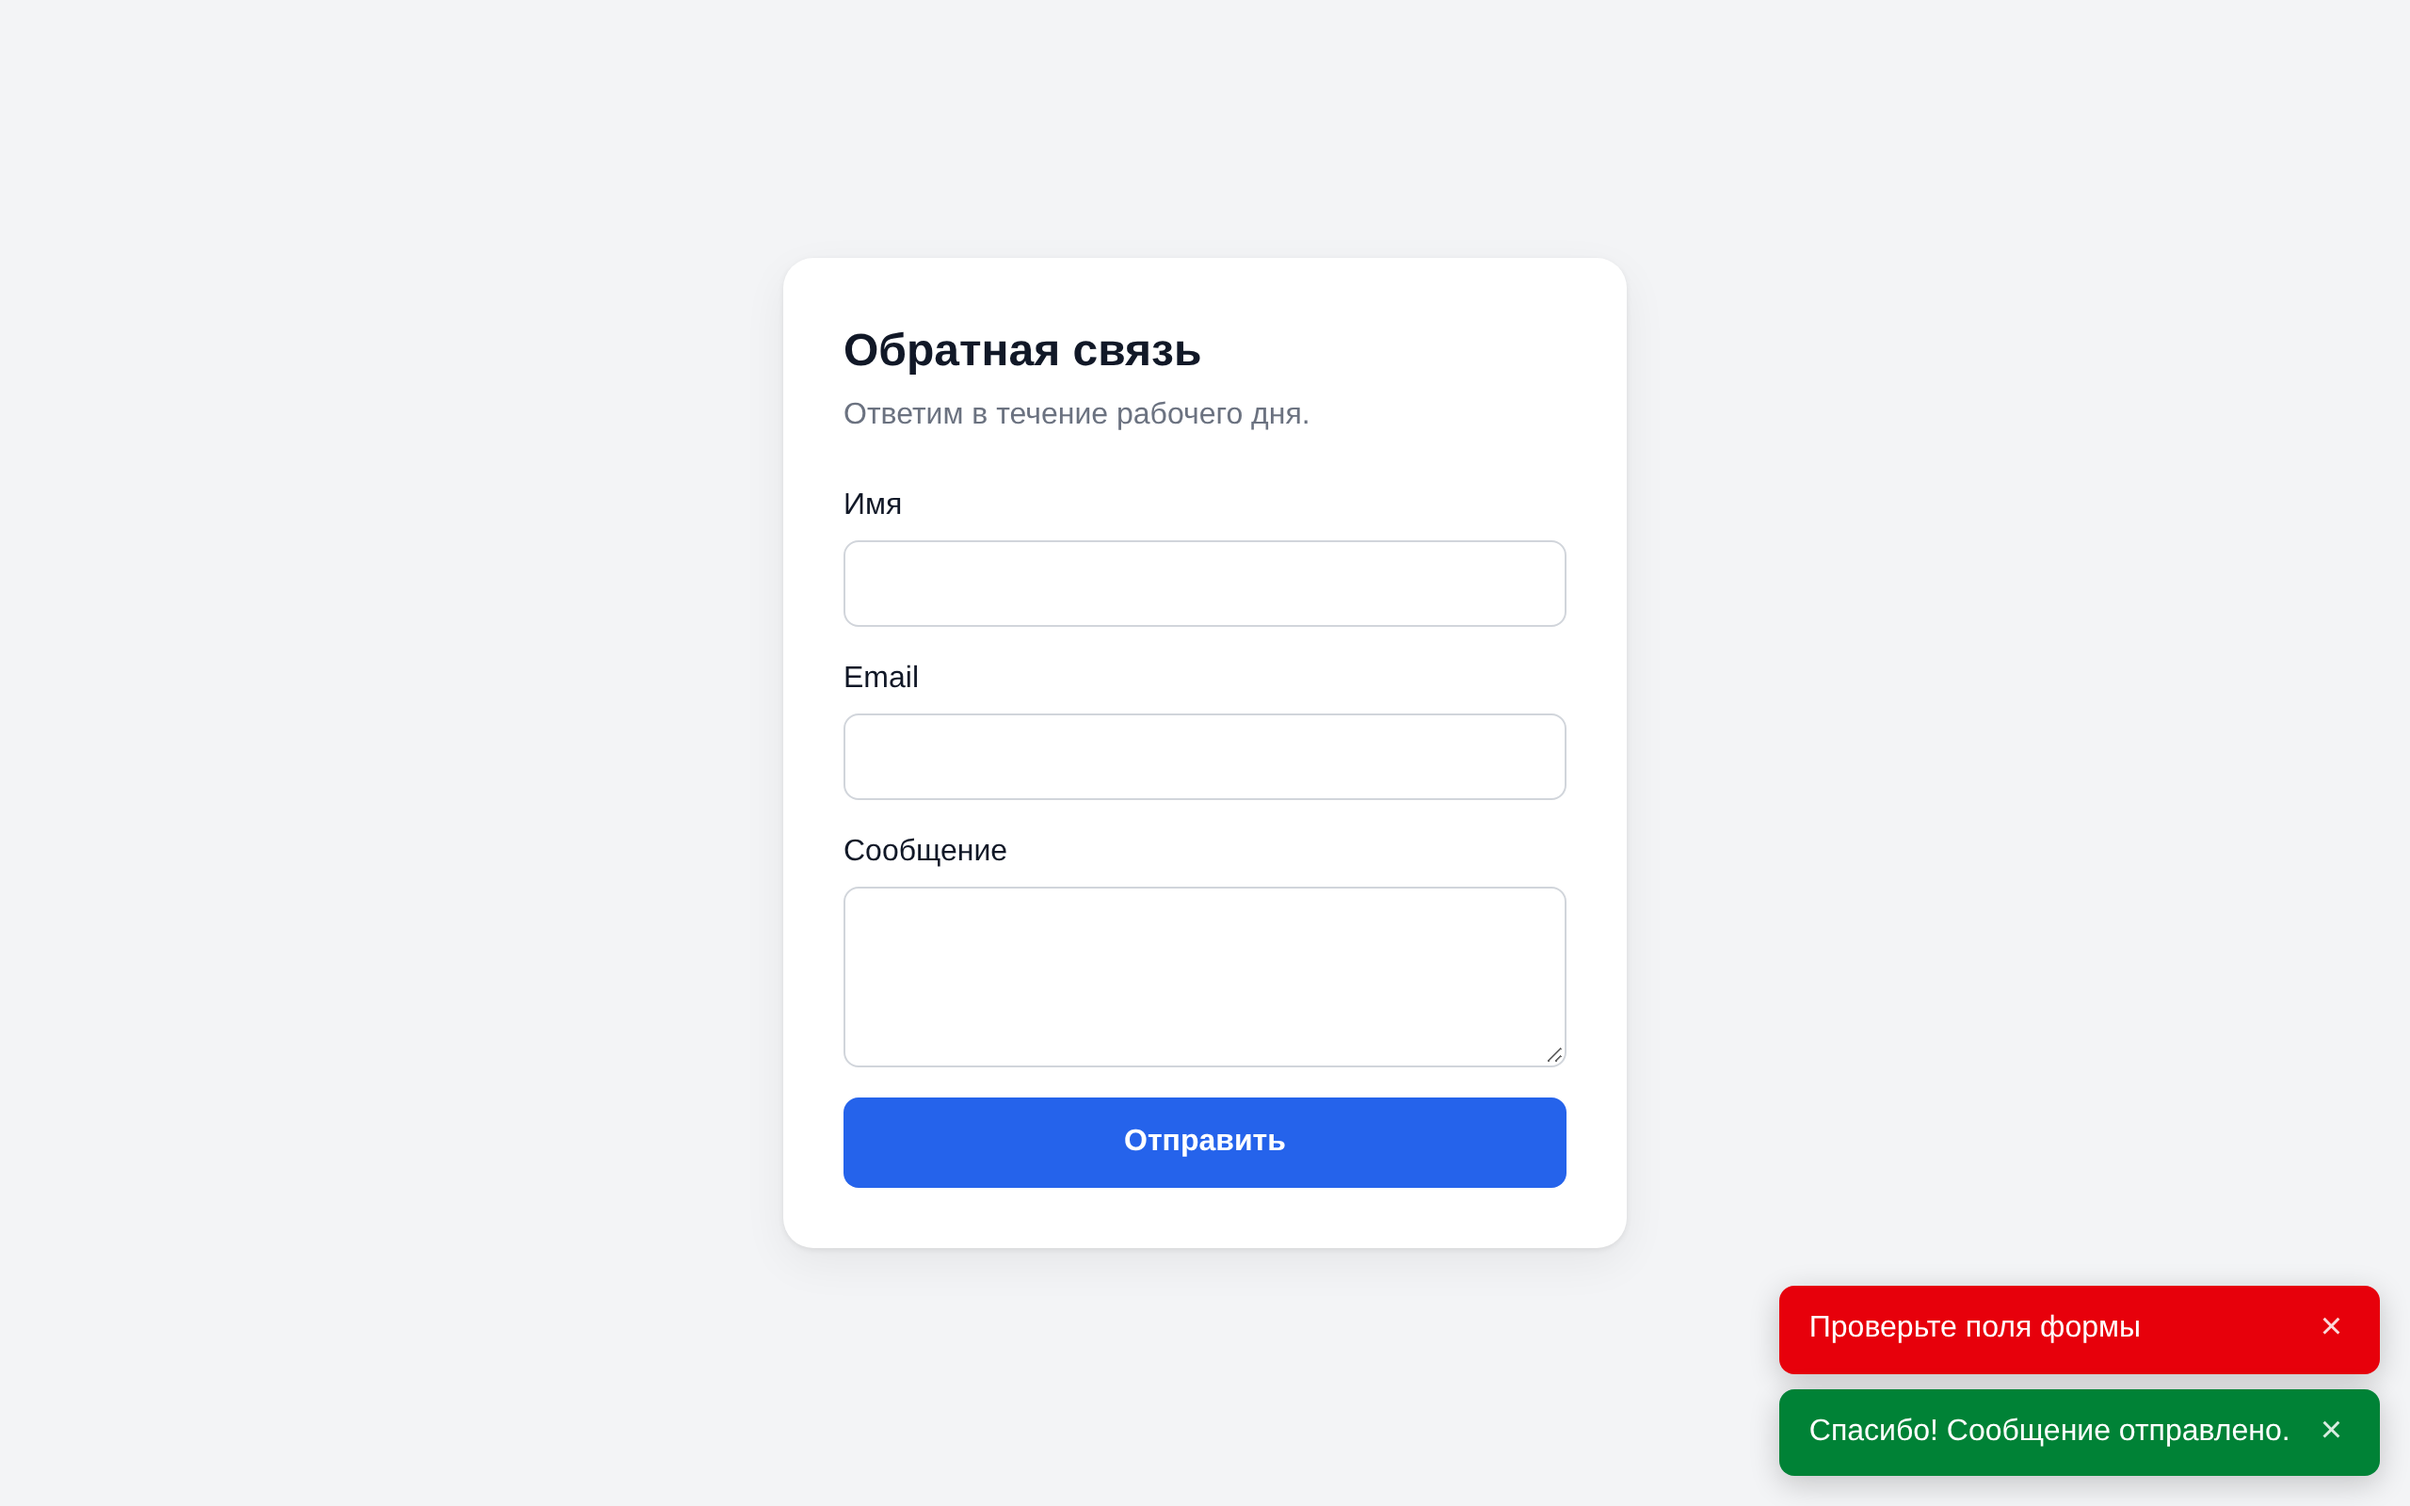
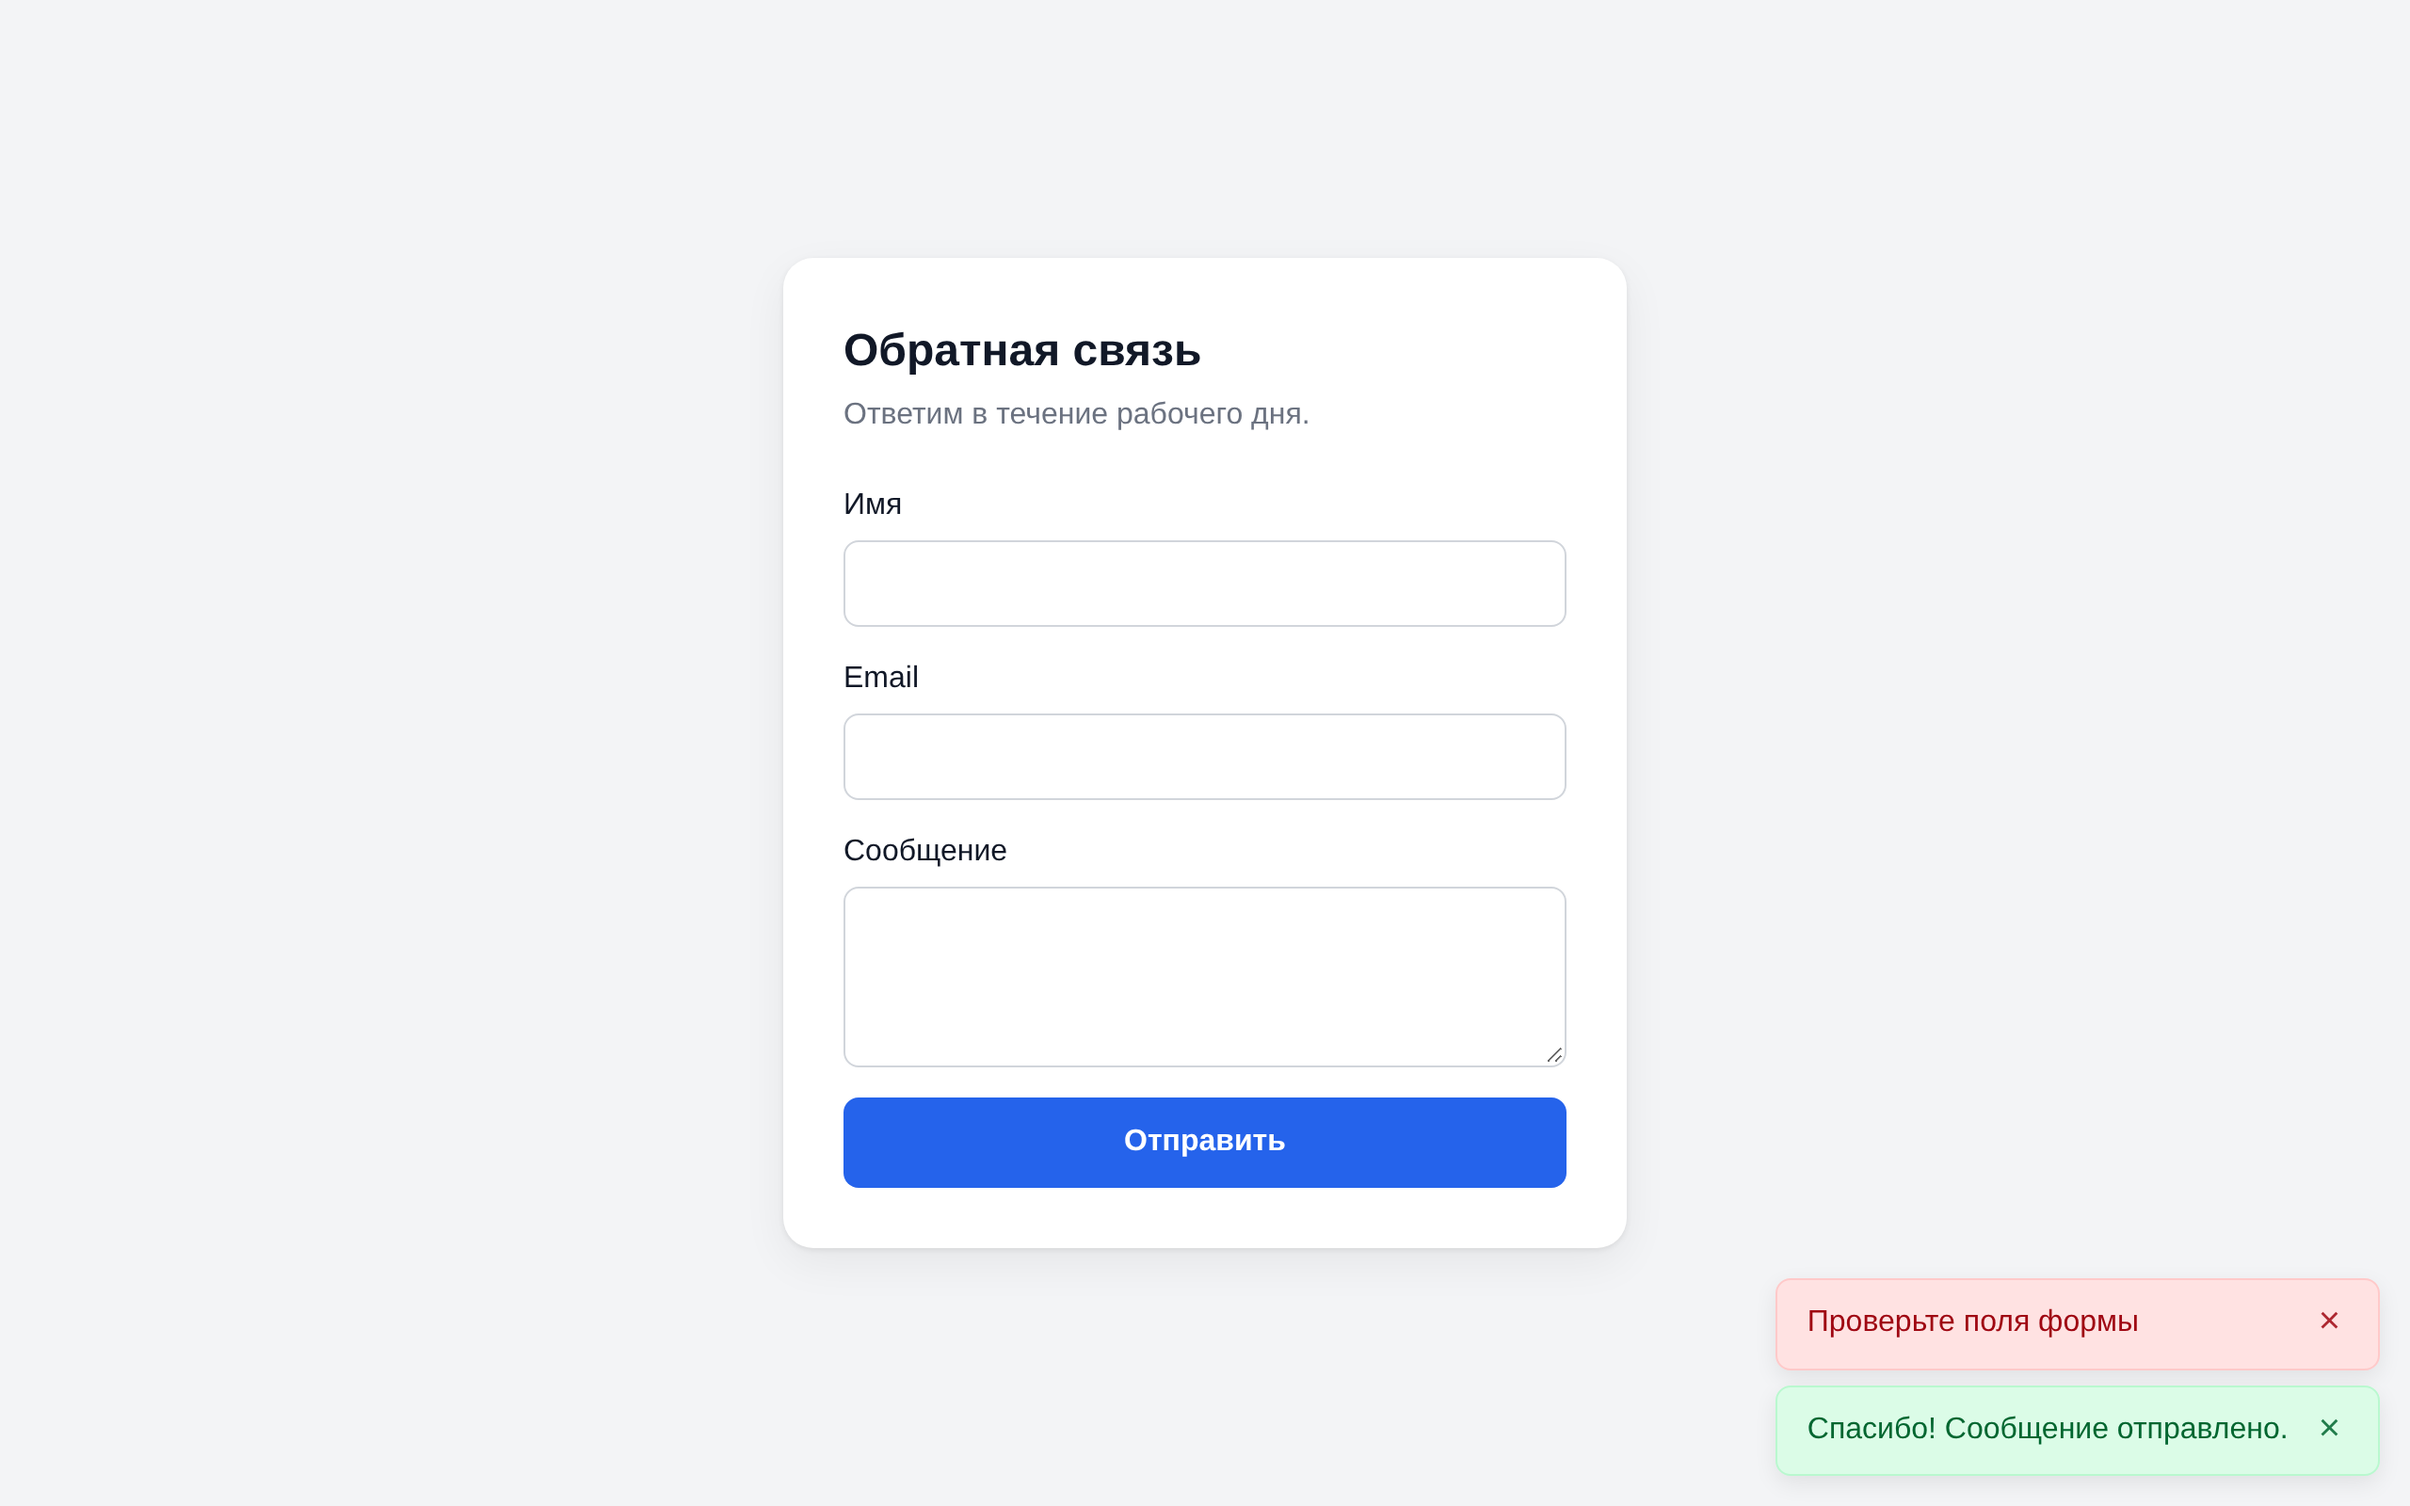
feat(notifier): Use the pastel alert colours of Tailwind CSS 4

Changed region(s): [[0.7188, 0.8438, 1.0, 1.0]]

diff --git a/src/notifier.ts b/src/notifier.ts
@@ -6,10 +6,10 @@
 // The styles use single class selectors: they win over the site's rules for
 // bare elements (button { ... }) and lose to any class rule of the site that
 // comes later. Rules inside @layer (Tailwind 4) lose to them; the colours
-// are CSS variables for that: --fetchit-toast-color, --fetchit-toast-success,
-// --fetchit-toast-error. By default they are the colours of Tailwind CSS 4
-// with enough contrast for white text: green-700 and red-600, in oklch()
-// where the browser knows it and in hex elsewhere.
+// are CSS variables for that: --fetchit-toast-{success,error}-{bg,text,border}.
+// By default they are pastel colours of Tailwind CSS 4, as in its alerts:
+// the 100 shade for the background, 200 for the border and 800 for the text,
+// green and red, in oklch() where the browser knows it and in hex elsewhere.
 //
 // Screen readers hear a toast through two live regions that exist, empty,
 // from the start, since a region added together with its text is often not
@@ -37,14 +37,26 @@ const CSS = `
 }
 .fetchit-toast {
   display: flex; align-items: flex-start; gap: .75rem; margin: 0; padding: .75rem 1rem; border-radius: .5rem;
-  color: var(--fetchit-toast-color, #fff); background: var(--fetchit-toast-success, #008236);
-  box-shadow: 0 .25rem 1rem rgb(0 0 0 / .2); line-height: 1.4; pointer-events: auto;
+  color: var(--fetchit-toast-success-text, #016630); background: var(--fetchit-toast-success-bg, #dcfce7);
+  border: 1px solid var(--fetchit-toast-success-border, #b9f8cf);
+  box-shadow: 0 .25rem .75rem rgb(0 0 0 / .08); line-height: 1.4; pointer-events: auto;
   animation: fetchit-toast-in .2s ease-out;
 }
-.fetchit-toast:where([data-type="error"]) { background: var(--fetchit-toast-error, #e7000b); }
+.fetchit-toast:where([data-type="error"]) {
+  color: var(--fetchit-toast-error-text, #9f0712); background: var(--fetchit-toast-error-bg, #ffe2e2);
+  border-color: var(--fetchit-toast-error-border, #ffc9c9);
+}
 @supports (color: oklch(0% 0 0)) {
-  .fetchit-toast { background: var(--fetchit-toast-success, oklch(52.7% 0.154 150.069)); }
-  .fetchit-toast:where([data-type="error"]) { background: var(--fetchit-toast-error, oklch(57.7% 0.245 27.325)); }
+  .fetchit-toast {
+    color: var(--fetchit-toast-success-text, oklch(44.8% 0.119 151.328));
+    background: var(--fetchit-toast-success-bg, oklch(96.2% 0.044 156.743));
+    border-color: var(--fetchit-toast-success-border, oklch(92.5% 0.084 155.995));
+  }
+  .fetchit-toast:where([data-type="error"]) {
+    color: var(--fetchit-toast-error-text, oklch(44.4% 0.177 26.899));
+    background: var(--fetchit-toast-error-bg, oklch(93.6% 0.032 17.717));
+    border-color: var(--fetchit-toast-error-border, oklch(88.5% 0.062 18.334));
+  }
 }
 .fetchit-toast__text { flex: 1; overflow-wrap: anywhere; }
 .fetchit-toast__close {

diff --git a/assets/components/fetchit/js/fetchit.js b/assets/components/fetchit/js/fetchit.js
@@ -194,14 +194,26 @@
 }
 .fetchit-toast {
   display: flex; align-items: flex-start; gap: .75rem; margin: 0; padding: .75rem 1rem; border-radius: .5rem;
-  color: var(--fetchit-toast-color, #fff); background: var(--fetchit-toast-success, #008236);
-  box-shadow: 0 .25rem 1rem rgb(0 0 0 / .2); line-height: 1.4; pointer-events: auto;
+  color: var(--fetchit-toast-success-text, #016630); background: var(--fetchit-toast-success-bg, #dcfce7);
+  border: 1px solid var(--fetchit-toast-success-border, #b9f8cf);
+  box-shadow: 0 .25rem .75rem rgb(0 0 0 / .08); line-height: 1.4; pointer-events: auto;
   animation: fetchit-toast-in .2s ease-out;
 }
-.fetchit-toast:where([data-type="error"]) { background: var(--fetchit-toast-error, #e7000b); }
+.fetchit-toast:where([data-type="error"]) {
+  color: var(--fetchit-toast-error-text, #9f0712); background: var(--fetchit-toast-error-bg, #ffe2e2);
+  border-color: var(--fetchit-toast-error-border, #ffc9c9);
+}
 @supports (color: oklch(0% 0 0)) {
-  .fetchit-toast { background: var(--fetchit-toast-success, oklch(52.7% 0.154 150.069)); }
-  .fetchit-toast:where([data-type="error"]) { background: var(--fetchit-toast-error, oklch(57.7% 0.245 27.325)); }
+  .fetchit-toast {
+    color: var(--fetchit-toast-success-text, oklch(44.8% 0.119 151.328));
+    background: var(--fetchit-toast-success-bg, oklch(96.2% 0.044 156.743));
+    border-color: var(--fetchit-toast-success-border, oklch(92.5% 0.084 155.995));
+  }
+  .fetchit-toast:where([data-type="error"]) {
+    color: var(--fetchit-toast-error-text, oklch(44.4% 0.177 26.899));
+    background: var(--fetchit-toast-error-bg, oklch(93.6% 0.032 17.717));
+    border-color: var(--fetchit-toast-error-border, oklch(88.5% 0.062 18.334));
+  }
 }
 .fetchit-toast__text { flex: 1; overflow-wrap: anywhere; }
 .fetchit-toast__close {

diff --git a/assets/components/fetchit/js/fetchit.min.js b/assets/components/fetchit/js/fetchit.min.js
@@ -6,14 +6,26 @@
 }
 .fetchit-toast {
   display: flex; align-items: flex-start; gap: .75rem; margin: 0; padding: .75rem 1rem; border-radius: .5rem;
-  color: var(--fetchit-toast-color, #fff); background: var(--fetchit-toast-success, #008236);
-  box-shadow: 0 .25rem 1rem rgb(0 0 0 / .2); line-height: 1.4; pointer-events: auto;
+  color: var(--fetchit-toast-success-text, #016630); background: var(--fetchit-toast-success-bg, #dcfce7);
+  border: 1px solid var(--fetchit-toast-success-border, #b9f8cf);
+  box-shadow: 0 .25rem .75rem rgb(0 0 0 / .08); line-height: 1.4; pointer-events: auto;
   animation: fetchit-toast-in .2s ease-out;
 }
-.fetchit-toast:where([data-type="error"]) { background: var(--fetchit-toast-error, #e7000b); }
+.fetchit-toast:where([data-type="error"]) {
+  color: var(--fetchit-toast-error-text, #9f0712); background: var(--fetchit-toast-error-bg, #ffe2e2);
+  border-color: var(--fetchit-toast-error-border, #ffc9c9);
+}
 @supports (color: oklch(0% 0 0)) {
-  .fetchit-toast { background: var(--fetchit-toast-success, oklch(52.7% 0.154 150.069)); }
-  .fetchit-toast:where([data-type="error"]) { background: var(--fetchit-toast-error, oklch(57.7% 0.245 27.325)); }
+  .fetchit-toast {
+    color: var(--fetchit-toast-success-text, oklch(44.8% 0.119 151.328));
+    background: var(--fetchit-toast-success-bg, oklch(96.2% 0.044 156.743));
+    border-color: var(--fetchit-toast-success-border, oklch(92.5% 0.084 155.995));
+  }
+  .fetchit-toast:where([data-type="error"]) {
+    color: var(--fetchit-toast-error-text, oklch(44.4% 0.177 26.899));
+    background: var(--fetchit-toast-error-bg, oklch(93.6% 0.032 17.717));
+    border-color: var(--fetchit-toast-error-border, oklch(88.5% 0.062 18.334));
+  }
 }
 .fetchit-toast__text { flex: 1; overflow-wrap: anywhere; }
 .fetchit-toast__close {

diff --git a/tests/js/notifier.test.ts b/tests/js/notifier.test.ts
@@ -97,10 +97,10 @@ describe('the built-in notifier', () => {
     expect(document.head.firstElementChild).toBe(styles[0])
     // One class: stronger than button { ... } of the site, weaker than its classes.
     expect(styles[0]!.textContent).toContain('\n.fetchit-toast__close {')
-    // green-700 and red-600 of Tailwind CSS 4, with hex for browsers without oklch().
-    expect(styles[0]!.textContent).toContain('var(--fetchit-toast-success, #008236)')
-    expect(styles[0]!.textContent).toContain('var(--fetchit-toast-success, oklch(52.7% 0.154 150.069))')
-    expect(styles[0]!.textContent).toContain('var(--fetchit-toast-error, oklch(57.7% 0.245 27.325))')
+    // Pastel colours of Tailwind CSS 4, with hex for browsers without oklch().
+    expect(styles[0]!.textContent).toContain('var(--fetchit-toast-success-bg, #dcfce7)')
+    expect(styles[0]!.textContent).toContain('var(--fetchit-toast-success-bg, oklch(96.2% 0.044 156.743))')
+    expect(styles[0]!.textContent).toContain('var(--fetchit-toast-error-text, oklch(44.4% 0.177 26.899))')
   })
 
   it('says so when a Content-Security-Policy blocks its styles', () => {
